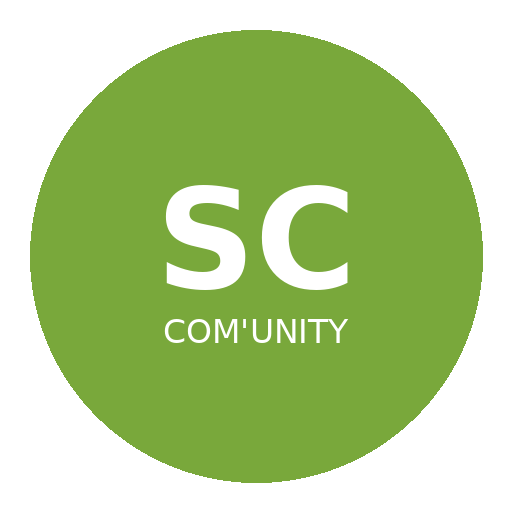
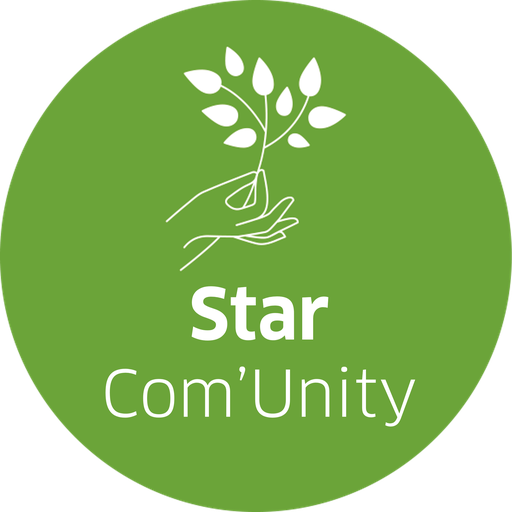
ICONE

Changed region(s): [[0.0, 0.0, 1.0, 1.0], [0.4688, 0.7188, 0.75, 0.8125]]

diff --git a/App.tsx b/App.tsx
@@ -3362,7 +3362,8 @@ const App: React.FC = () => {
       {!currentUser ? (
         <div className="min-h-screen w-full bg-slate-50 flex items-center justify-center p-6">
           <div className="w-full max-w-md bg-white rounded-2xl shadow-xl border border-slate-200 overflow-hidden">
-            <div className="p-8 bg-[#14532d] text-white text-center">
+            <div className="p-7 bg-[#14532d] text-white text-center flex flex-col items-center gap-3">
+              <img src="/brand-logo.png" alt="Star Com'Unity" className="w-28 h-28 object-contain drop-shadow-sm" />
               <h1 className="text-2xl font-bold">{appConfig.appName}</h1>
             </div>
 
@@ -3398,7 +3399,7 @@ const App: React.FC = () => {
       ) : (
         <>
           <div className="md:hidden bg-white border-b border-slate-200 px-6 py-4 flex items-center justify-between sticky top-0 z-50">
-            <span className="font-bold text-slate-800">{appConfig.appName}</span>
+            <div className="flex items-center gap-2"><img src="/brand-logo.png" alt="Star Com'Unity" className="w-9 h-9 object-contain" /><span className="font-bold text-slate-800">{appConfig.appName}</span></div>
             <button onClick={() => setIsMobileMenuOpen(true)} className="p-2 text-slate-600">
               <svg className="w-6 h-6" fill="none" stroke="currentColor" viewBox="0 0 24 24">
                 <path strokeLinecap="round" strokeLinejoin="round" strokeWidth={2} d="M4 6h16M4 12h16m-7 6h7" />

diff --git a/components/Sidebar.tsx b/components/Sidebar.tsx
@@ -85,7 +85,7 @@ const Sidebar: React.FC<SidebarProps> = ({
       <div className={`fixed left-0 top-0 h-screen w-[min(16rem,88vw)] md:w-64 bg-white border-r border-slate-200 z-[100] flex flex-col transition-transform duration-300 ease-in-out ${isOpen ? 'translate-x-0' : '-translate-x-full'} md:translate-x-0`}>
         <div className="p-6 border-b border-slate-100 flex items-center justify-between">
           <div className="flex items-center gap-3">
-            <img src={appConfig.logoUrl} className="w-10 h-10 object-contain" alt="Logo" />
+            <img src="/brand-logo.png" className="w-11 h-11 object-contain" alt="Star Com'Unity" />
             <h1 className="text-lg font-bold text-slate-800 tracking-tight">{appConfig.appName}</h1>
           </div>
           <button onClick={onClose} className="md:hidden p-2 text-slate-400 hover:text-slate-600">

diff --git a/constants.tsx b/constants.tsx
@@ -3,7 +3,7 @@ import { Post, User, UserRole, CompanyEvent, AppConfig, Reward } from './types';
 export const INITIAL_CONFIG: AppConfig = {
   appName: 'Star ComUnity',
   appSlogan: 'Le mur social de votre entreprise',
-  logoUrl: 'logo.png',
+  logoUrl: '/brand-logo.png',
   welcomeTitle: 'Bonjour, {name} !',
   welcomeSubtitle: 'Voici les dernières actualités de la matinée.',
   documentCategories: ['Général', 'RH', 'Finance', 'Technique', 'Juridique'],

diff --git a/README_V1631_LOGO_STAR_COMUNITY.md b/README_V1631_LOGO_STAR_COMUNITY.md
@@ -1,0 +1,9 @@
+# V1.6.31 — Identité visuelle Star Com’Unity
+
+- Logo fourni intégré sans redessin dans l’interface principale.
+- Logo affiché sur l’écran de connexion, la barre latérale et l’en-tête mobile.
+- Icônes PWA remplacées : 192 px, 512 px et variante maskable.
+- Icône Apple Touch et favicon remplacés.
+- Logo source applicatif : `public/brand-logo.png`.
+- Aucun changement SQL.
+- Aucun changement fonctionnel.
